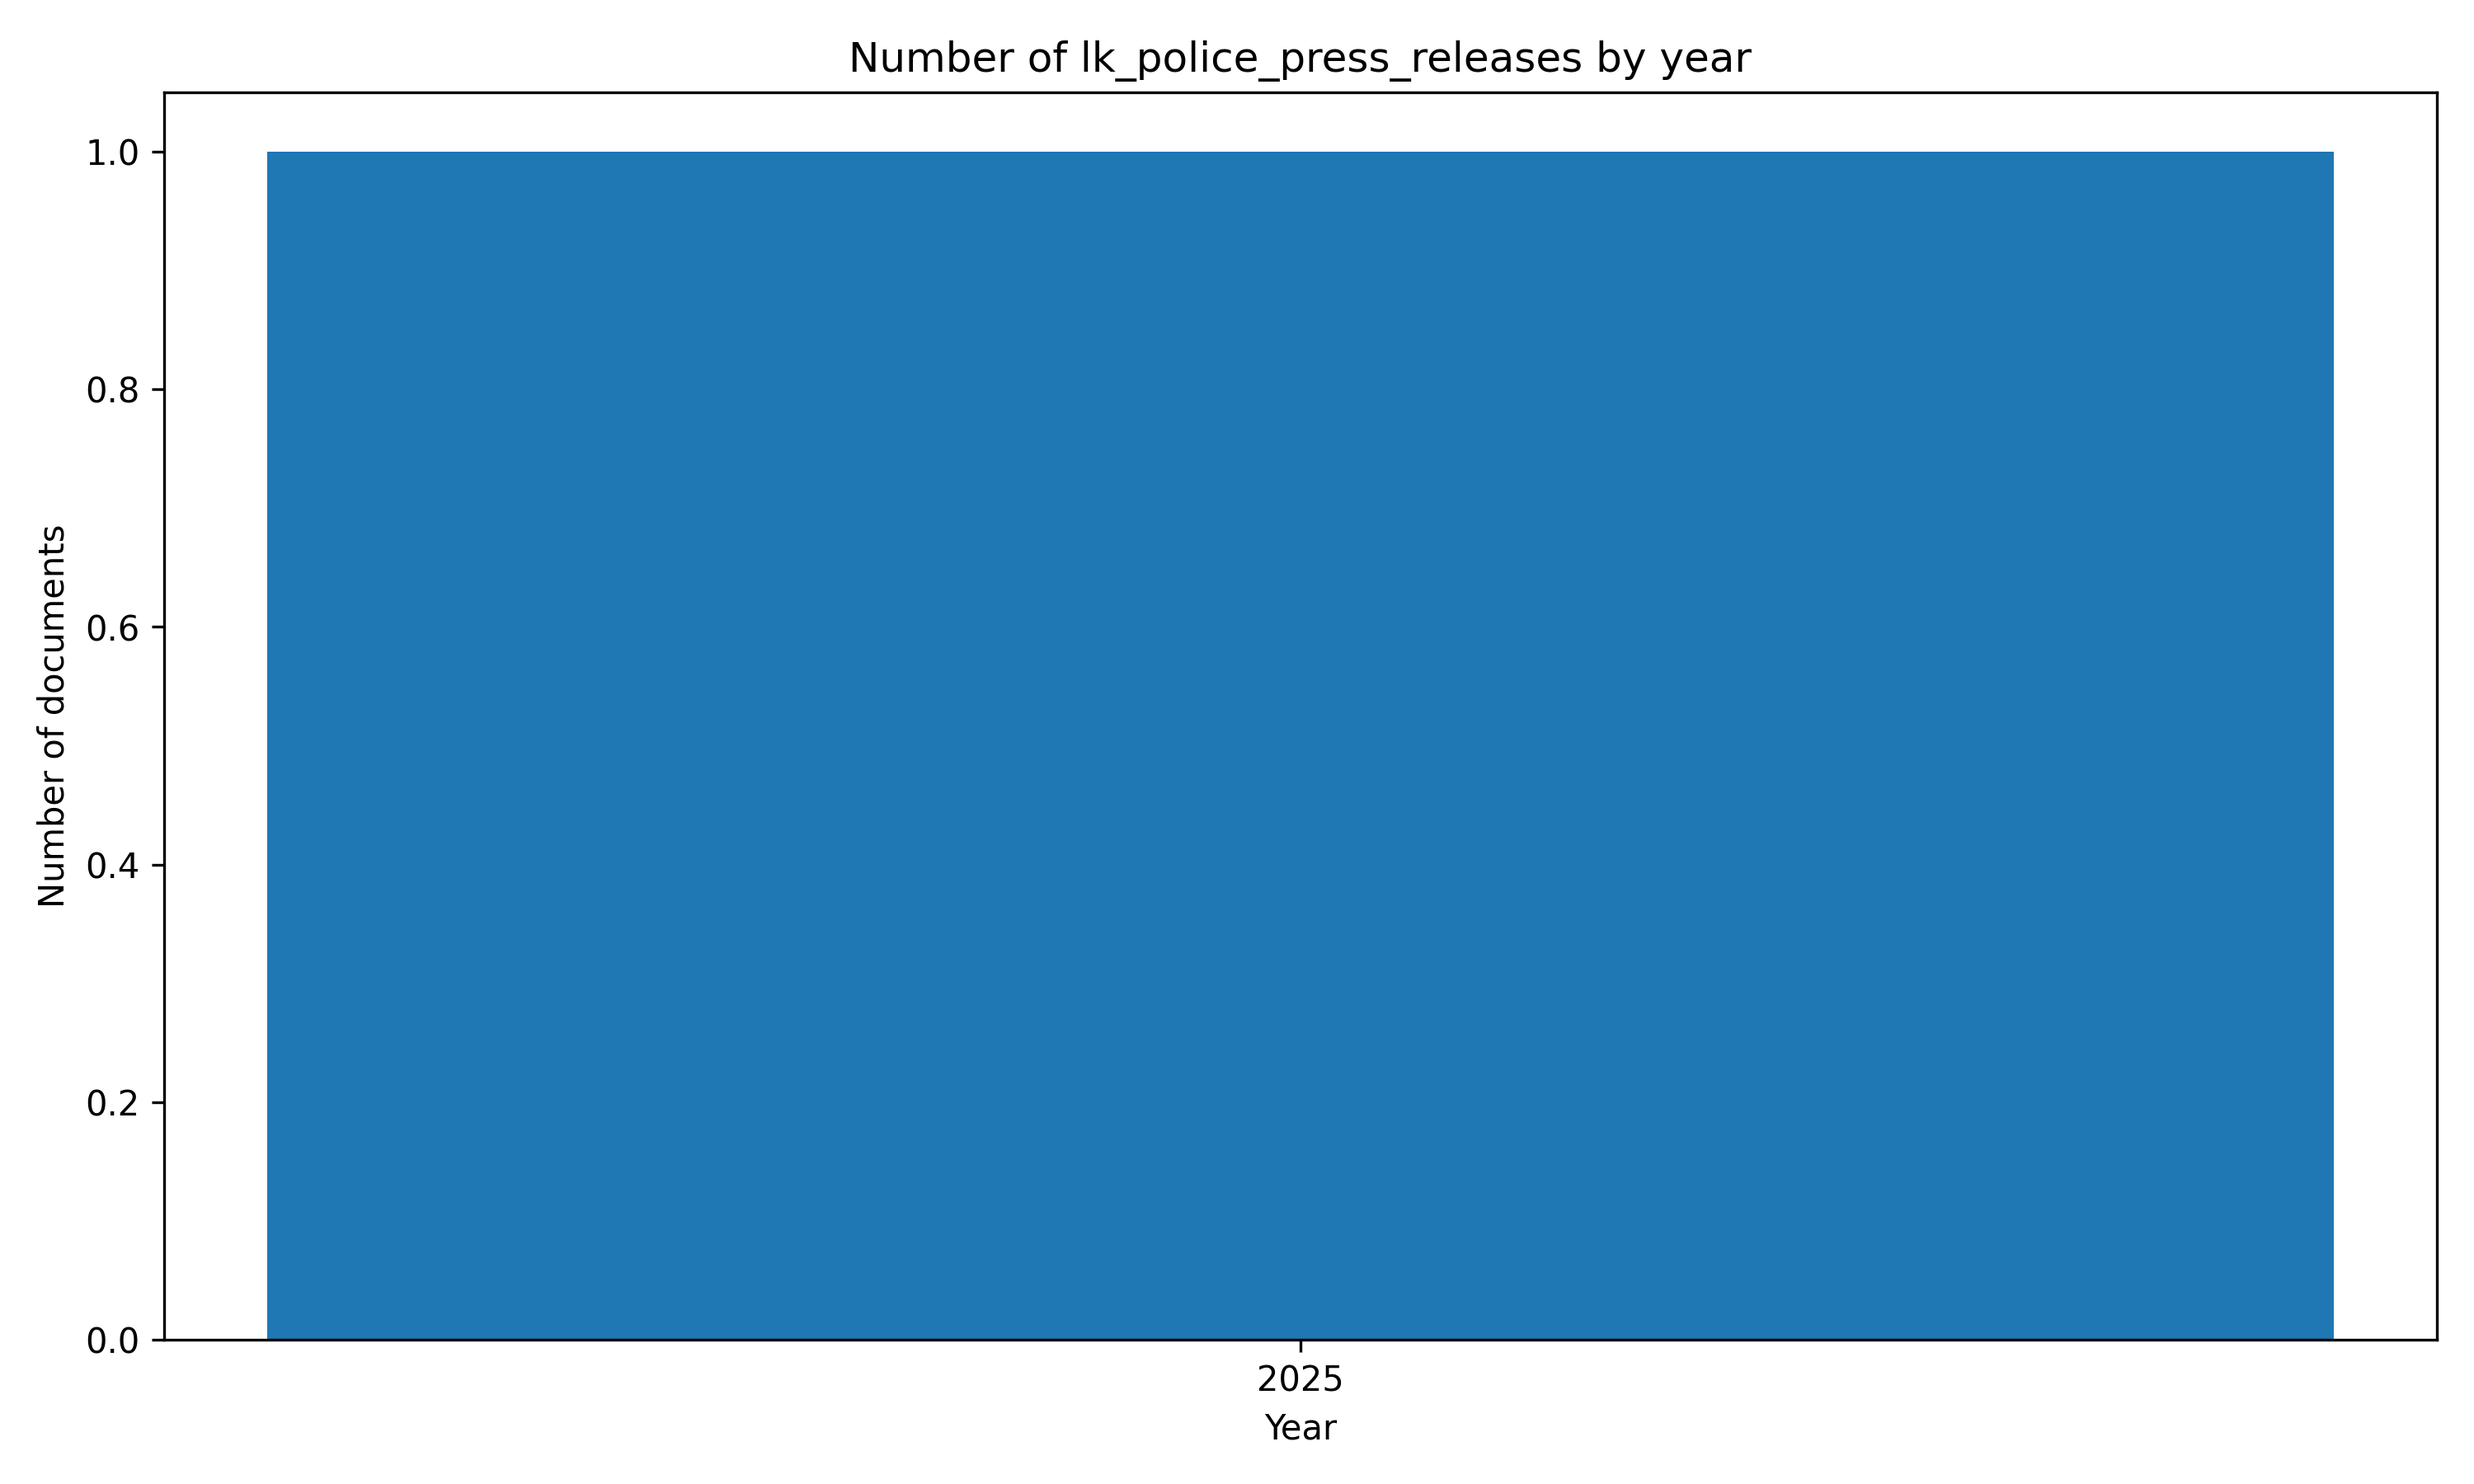
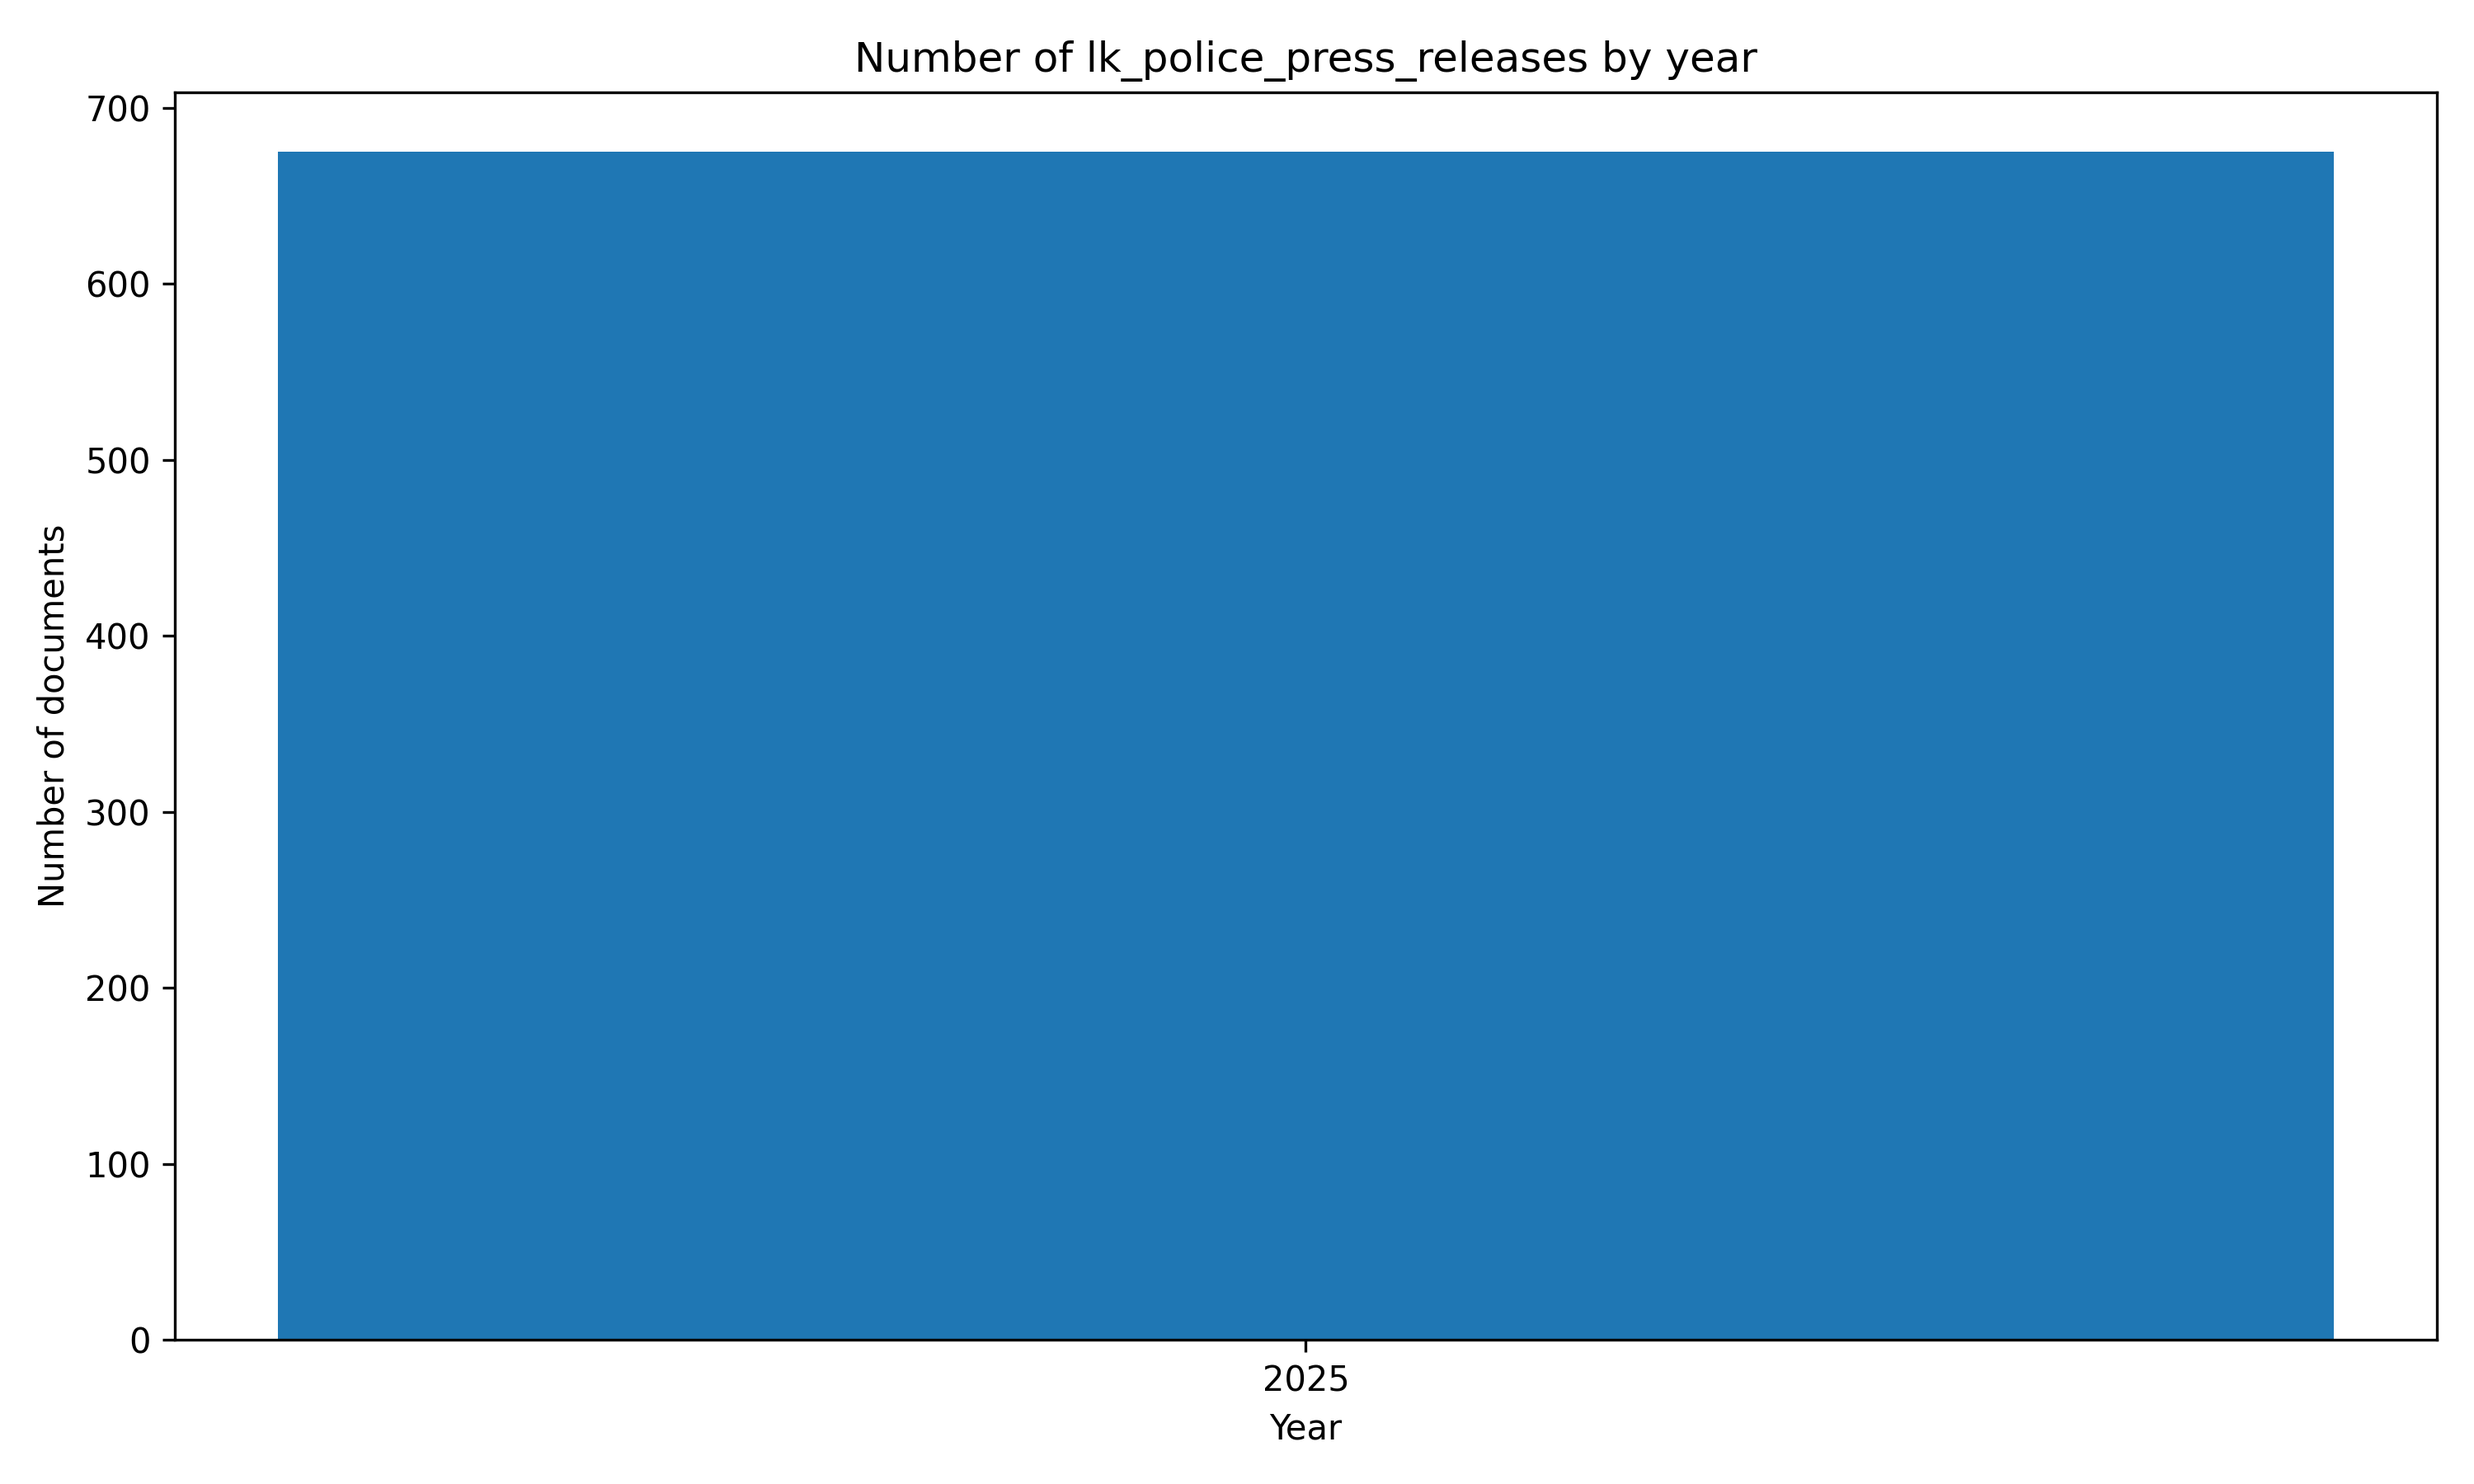
🤖 [pipeline.yml] 2025-09-18-0626

diff --git a/README.md b/README.md
@@ -1,11 +1,11 @@
 # 🇱🇰 #SriLanka Police Press Releases `Dataset`
 
-![LastUpdated](https://img.shields.io/badge/last_updated-2025--09--18_11:42:08-green)
+![LastUpdated](https://img.shields.io/badge/last_updated-2025--09--18_11:56:31-green)
 ![DatasetSize](https://img.shields.io/badge/dataset_size-0.2_GB-yellow)
 
 [https://github.com/nuuuwan/lk_police_press_releases](https://github.com/nuuuwan/lk_police_press_releases)
 
-📜 [**1** documents](https://github.com/nuuuwan/lk_police_press_releases/tree/data) (**0.2 GB**), from **2025-09-18** to **2025-09-18**, scraped from **[https://www.police.lk/](https://www.police.lk/)**
+📜 [**675** documents](https://github.com/nuuuwan/lk_police_press_releases/tree/data) (**0.2 GB**), from **2025-05-01** to **2025-09-18**, scraped from **[https://www.police.lk/](https://www.police.lk/)**
 
 📑 In JSON, PDF, TXT and 🤗 Hugging Face Formats
 
@@ -17,7 +17,7 @@
 
 ...
 
-*📒 PDFs have been downloaded for **0** (**0%**) documents*
+*📒 PDFs have been downloaded for **26** (**4%**) documents*
 
 🪲 #WorkInProgress - Suggestions, Questions, Ideas, & [Bug Reports](https://github.com/nuuuwan/lk_police_press_releases/issues) are welcome!
 
@@ -51,6 +51,25 @@
 ## 🆕 20 Latest documents
 
 - 2025-09-18 | `2025-09-18 06:30` | 2025-09-18 06:30 | [data](https://github.com/nuuuwan/lk_police_press_releases/tree/data/data/lk_police_press_releases/2020s/2025/2025-09-18-2025-09-18-06-30)
+- 2025-09-17 | `2025-09-17 10:05` | 2025-09-17 10:05 | [data](https://github.com/nuuuwan/lk_police_press_releases/tree/data/data/lk_police_press_releases/2020s/2025/2025-09-17-2025-09-17-10-05)
+- 2025-09-17 | `2025-09-17 06:35` | 2025-09-17 06:35 | [data](https://github.com/nuuuwan/lk_police_press_releases/tree/data/data/lk_police_press_releases/2020s/2025/2025-09-17-2025-09-17-06-35)
+- 2025-09-16 | `2025-09-16 08:35` | 2025-09-16 08:35 | [data](https://github.com/nuuuwan/lk_police_press_releases/tree/data/data/lk_police_press_releases/2020s/2025/2025-09-16-2025-09-16-08-35)
+- 2025-09-16 | `2025-09-16 06:15` | 2025-09-16 06:15 | [data](https://github.com/nuuuwan/lk_police_press_releases/tree/data/data/lk_police_press_releases/2020s/2025/2025-09-16-2025-09-16-06-15)
+- 2025-09-15 | `2025-09-15 09:20` | 2025-09-15 09:20 | [data](https://github.com/nuuuwan/lk_police_press_releases/tree/data/data/lk_police_press_releases/2020s/2025/2025-09-15-2025-09-15-09-20)
+- 2025-09-15 | `2025-09-15 06:20` | 2025-09-15 06:20 | [data](https://github.com/nuuuwan/lk_police_press_releases/tree/data/data/lk_police_press_releases/2020s/2025/2025-09-15-2025-09-15-06-20)
+- 2025-09-15 | `2025-09-15 00:05` | 2025-09-15 00:05 | [data](https://github.com/nuuuwan/lk_police_press_releases/tree/data/data/lk_police_press_releases/2020s/2025/2025-09-15-2025-09-15-00-05)
+- 2025-09-14 | `2025-09-14 11:15` | 2025-09-14 11:15 | [data](https://github.com/nuuuwan/lk_police_press_releases/tree/data/data/lk_police_press_releases/2020s/2025/2025-09-14-2025-09-14-11-15)
+- 2025-09-14 | `2025-09-14 06:25` | 2025-09-14 06:25 | [data](https://github.com/nuuuwan/lk_police_press_releases/tree/data/data/lk_police_press_releases/2020s/2025/2025-09-14-2025-09-14-06-25)
+- 2025-09-13 | `2025-09-13 11:10` | 2025-09-13 11:10 | [data](https://github.com/nuuuwan/lk_police_press_releases/tree/data/data/lk_police_press_releases/2020s/2025/2025-09-13-2025-09-13-11-10)
+- 2025-09-13 | `2025-09-13 11:05` | 2025-09-13 11:05 | [data](https://github.com/nuuuwan/lk_police_press_releases/tree/data/data/lk_police_press_releases/2020s/2025/2025-09-13-2025-09-13-11-05)
+- 2025-09-13 | `2025-09-13 09:10` | 2025-09-13 09:10 | [data](https://github.com/nuuuwan/lk_police_press_releases/tree/data/data/lk_police_press_releases/2020s/2025/2025-09-13-2025-09-13-09-10)
+- 2025-09-13 | `2025-09-13 06:25` | 2025-09-13 06:25 | [data](https://github.com/nuuuwan/lk_police_press_releases/tree/data/data/lk_police_press_releases/2020s/2025/2025-09-13-2025-09-13-06-25)
+- 2025-09-12 | `2025-09-12 15:15` | 2025-09-12 15:15 | [data](https://github.com/nuuuwan/lk_police_press_releases/tree/data/data/lk_police_press_releases/2020s/2025/2025-09-12-2025-09-12-15-15)
+- 2025-09-12 | `2025-09-12 15:10` | 2025-09-12 15:10 | [data](https://github.com/nuuuwan/lk_police_press_releases/tree/data/data/lk_police_press_releases/2020s/2025/2025-09-12-2025-09-12-15-10)
+- 2025-09-12 | `2025-09-12 13:30` | 2025-09-12 13:30 | [data](https://github.com/nuuuwan/lk_police_press_releases/tree/data/data/lk_police_press_releases/2020s/2025/2025-09-12-2025-09-12-13-30)
+- 2025-09-12 | `2025-09-12 11:25` | 2025-09-12 11:25 | [data](https://github.com/nuuuwan/lk_police_press_releases/tree/data/data/lk_police_press_releases/2020s/2025/2025-09-12-2025-09-12-11-25)
+- 2025-09-12 | `2025-09-12 09:25` | 2025-09-12 09:25 | [data](https://github.com/nuuuwan/lk_police_press_releases/tree/data/data/lk_police_press_releases/2020s/2025/2025-09-12-2025-09-12-09-25)
+- 2025-09-12 | `2025-09-12 06:10` | 2025-09-12 06:10 | [data](https://github.com/nuuuwan/lk_police_press_releases/tree/data/data/lk_police_press_releases/2020s/2025/2025-09-12-2025-09-12-06-10)
 
 ---
 
